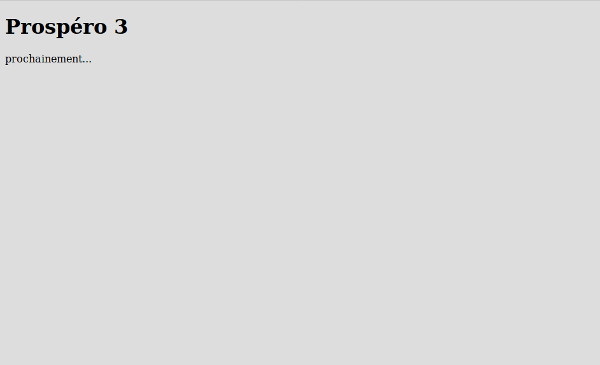
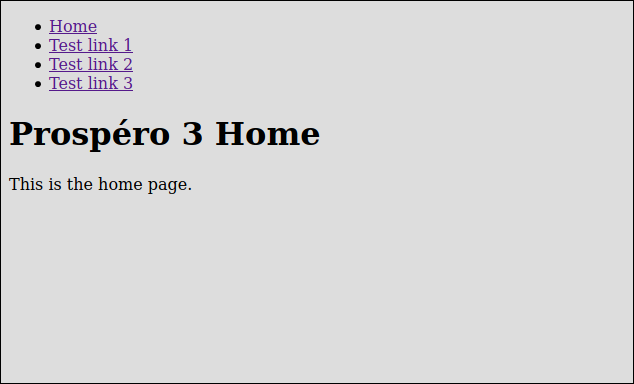
Create single-page application with ReactJS
See https://reactjs.org/
See https://reacttraining.com/react-router/

diff --git a/app/javascript/components/App.jsx b/app/javascript/components/App.jsx
@@ -1,0 +1,41 @@
+/**
+* Prospero
+*
+* You should have received a copy of the license along with this program.
+*
+* Licensed under
+* - GNU Affero General Public License V3
+* - CeCILL Affero compliant
+*/
+
+/**
+* React application entrypoint.
+*/
+
+import React from 'react';
+import { BrowserRouter as Router, Link } from "react-router-dom";
+import Routes from './Routes';
+
+function App() {
+  return (
+    <Router>
+      <ul>
+        <li>
+          <Link to="/">Home</Link>
+        </li>
+        <li>
+          <Link to="/sample/1">Test link 1</Link>
+        </li>
+        <li>
+          <Link to="/sample/2">Test link 2</Link>
+        </li>
+        <li>
+          <Link to="/sample/3">Test link 3</Link>
+        </li>
+      </ul>
+      <Routes />
+    </Router>
+  );
+}
+
+export default App;

diff --git a/app/javascript/components/Routes.jsx b/app/javascript/components/Routes.jsx
@@ -1,0 +1,35 @@
+/**
+* Prospero
+*
+* You should have received a copy of the license along with this program.
+*
+* Licensed under
+* - GNU Affero General Public License V3
+* - CeCILL Affero compliant
+*/
+
+/**
+* Navigation routes.
+*
+* See https://reacttraining.com/react-router/
+*/
+
+import React from 'react';
+import { Switch, Route } from "react-router-dom";
+import Home from './Home';
+import Sample from './Sample';
+
+function Routes() {
+  return (
+    <Switch>
+      <Route path="/sample/:id">
+        <Sample />
+      </Route>
+      <Route path="/">
+        <Home />
+      </Route>
+    </Switch>
+  );
+}
+
+export default Routes;

diff --git a/app/javascript/components/Sample.jsx b/app/javascript/components/Sample.jsx
@@ -1,0 +1,33 @@
+/**
+* Prospero
+*
+* You should have received a copy of the license along with this program.
+*
+* Licensed under
+* - GNU Affero General Public License V3
+* - CeCILL Affero compliant
+*/
+
+/**
+* Sample pages component.
+*/
+
+import React from 'react';
+import { useParams } from 'react-router-dom';
+
+function Sample() {
+  let { id } = useParams();
+  return (
+    <div className="sample">
+      <h1>Sample page</h1>
+      <div>
+        This is a sample page.
+      </div>
+      <div>
+        The given Id in the URL is: <strong>{id}</strong>
+      </div>
+    </div>
+  );
+}
+
+export default Sample;

diff --git a/app/javascript/components/Home.jsx b/app/javascript/components/Home.jsx
@@ -1,0 +1,28 @@
+/**
+* Prospero
+*
+* You should have received a copy of the license along with this program.
+*
+* Licensed under
+* - GNU Affero General Public License V3
+* - CeCILL Affero compliant
+*/
+
+/**
+* Home page component.
+*/
+
+import React from 'react';
+
+function Home() {
+  return (
+    <div className="home">
+      <h1>Prospéro 3 Home</h1>
+      <div>
+        This is the home page.
+      </div>
+    </div>
+  );
+}
+
+export default Home;

diff --git a/app/javascript/packs/application.js b/app/javascript/packs/application.js
@@ -6,7 +6,9 @@
 * Licensed under
 * - GNU Affero General Public License V3
 * - CeCILL Affero compliant
-*
+*/
+
+/**
 * Application main JavaScript pack.
 *
 * See https://github.com/rails/webpacker

diff --git a/config/routes.rb b/config/routes.rb
@@ -13,7 +13,10 @@
 # See https://guides.rubyonrails.org/routing.html
 Rails.application.routes.draw do
   # See https://guides.rubyonrails.org/routing.html#using-root
-  root to: 'home#index'
+  root to: 'application#index'
+
+  # Route for sample pages
+  get '/sample/:id', to: 'application#index'
 
   # See https://www.rubydoc.info/github/plataformatec/devise/master/ActionDispatch/Routing/Mapper%3Adevise_for
   devise_for :users, skip: :all

diff --git a/spec/integration/home_spec.rb b/spec/integration/home_spec.rb
@@ -8,9 +8,11 @@
 # - GNU Affero General Public License V3
 # - CeCILL Affero compliant
 
-# Home page controller
-#
-# Responds to the following routes:
-# - GET / => #index
-class HomeController < ApplicationController
+# Home page integration tests
+context 'Home' do
+  before do
+    get '/'
+  end
+
+  it { expect(response).to have_http_status(:ok) }
 end
